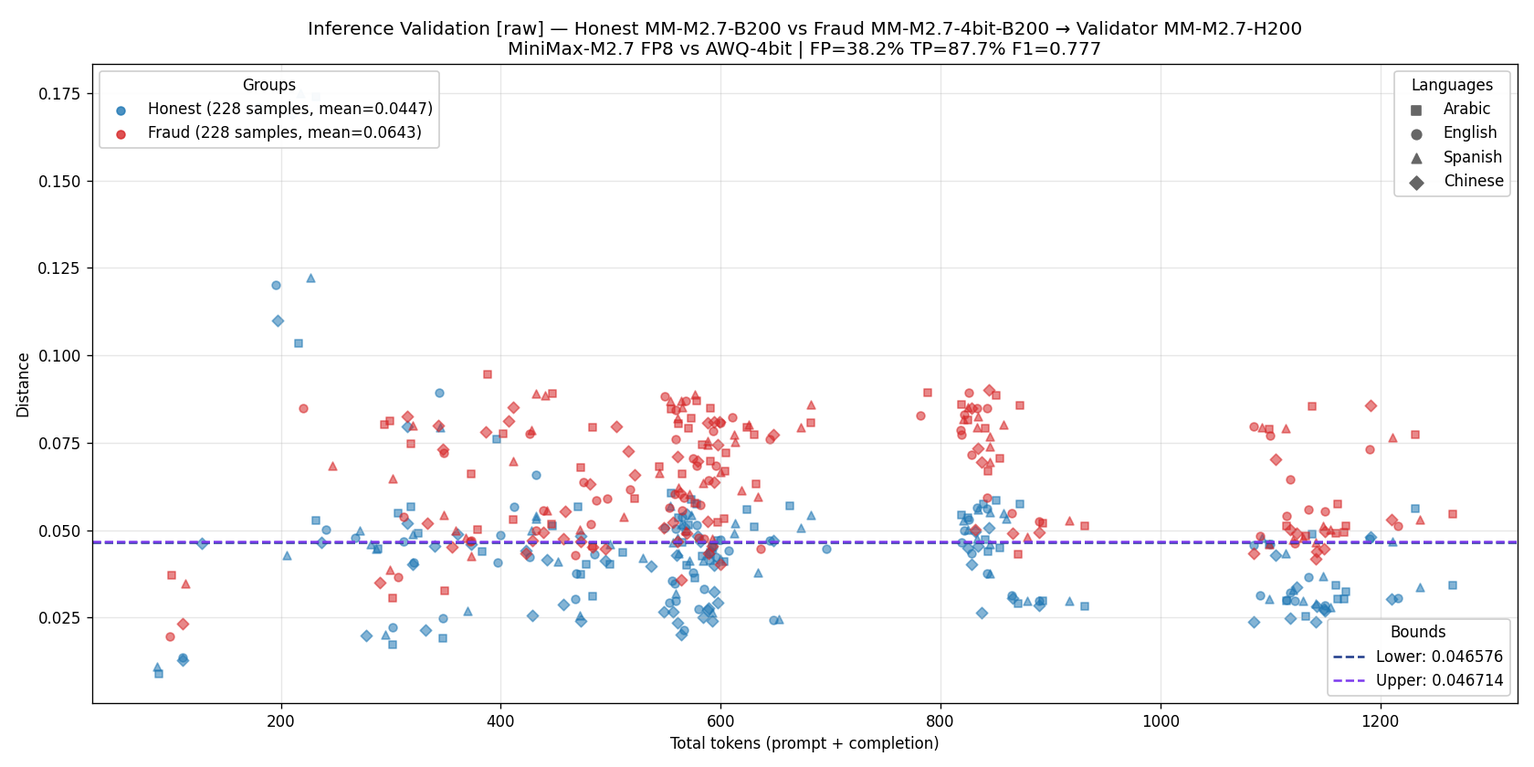
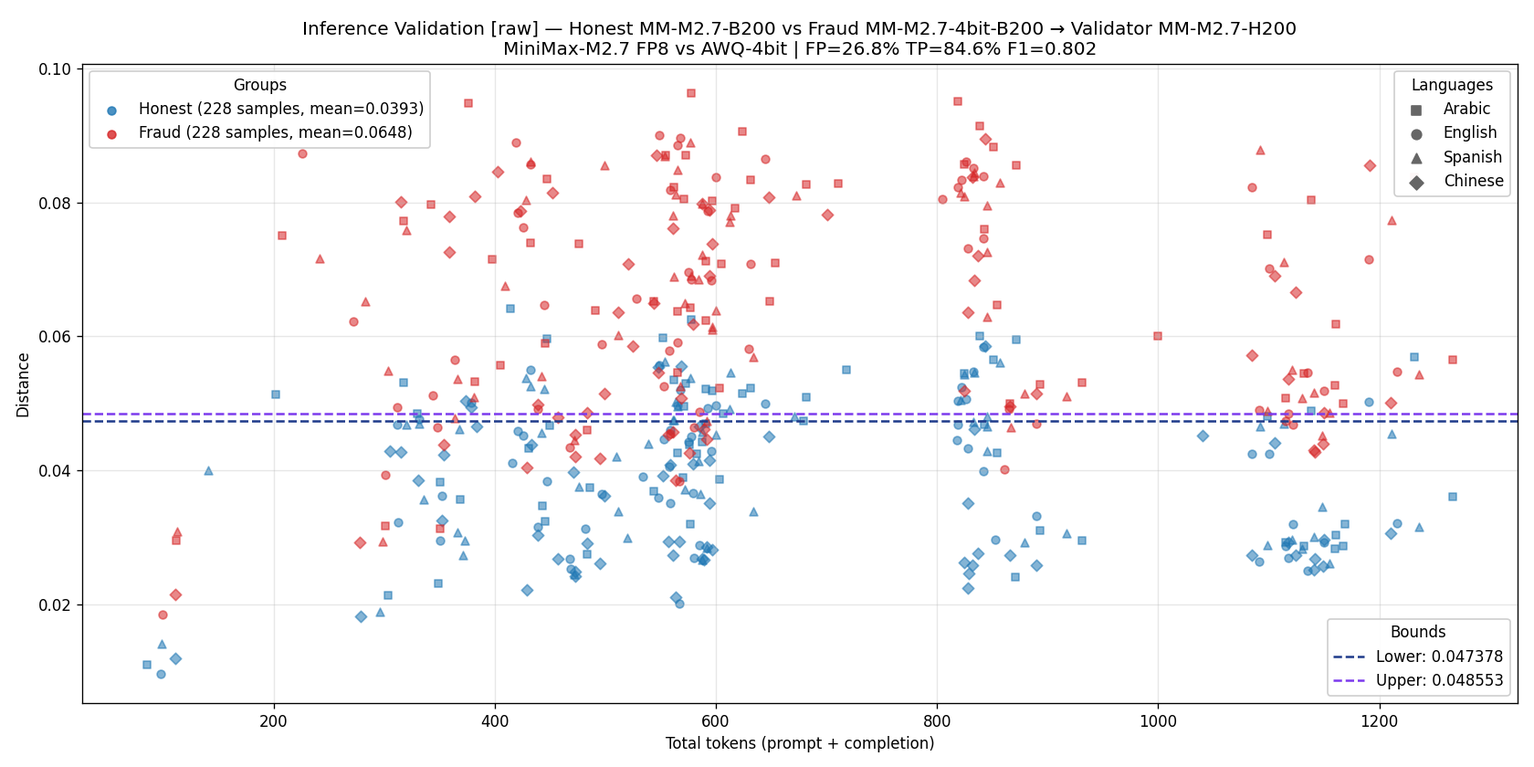
feat: genreate new inference's l2

diff --git a/artifacts/2026-06-07/README.md b/artifacts/2026-06-07/README.md
@@ -1,41 +1,59 @@
 # MiniMax-M2.7 cross-arch fraud detection — 2026-06-07
 
-Cross-architecture test of **MiniMax-M2.7 FP8** (honest model) vs **MiniMax-M2.7-AWQ-4bit** (fraud model) on **2×B200** and **4×A100**, validated against **2×H200** as an independent third architecture, in both `raw_logprobs` and `processed_logprobs` modes.
+Full 3-architecture cross-validation of **MiniMax-M2.7 FP8** (honest model) vs **MiniMax-M2.7-AWQ-4bit** (fraud model) on **2×B200**, **4×A100**, and **2×H200**, in both `raw_logprobs` and `processed_logprobs` modes.
 
-Each executor's 228 prompts were replayed through the H200 validator using `enforced_tokens` (chain-style validation: validator scores the executor's exact token sequence position-by-position, no free generation). Distance plotted = `1 − customSimilarity` from the chain validator algorithm.
+Each executor's 228 prompts were replayed through every other architecture's validator using `enforced_tokens` (chain-style validation: validator scores the executor's exact token sequence position-by-position, no free generation). Distance plotted = `1 − customSimilarity` from the chain validator algorithm.
 
-> **Note on the `--logprobs-mode raw_logprobs` fix (2026-06-07)**: an earlier sweep had ~17.5% of validations (every `tool_*` / `rf_*` / `multi_turn_*` prompt) collapsing to similarity ≈ 0.6 with ~10-15% of positions at `logprob = -9999`. Root cause: vLLM's `detect_logprobs_mode()` heuristic ([vllm/validation.py:51](../../vllm/validation.py#L51)) misclassified raw inputs whose top-K naturally contains many low-ID tokens (JSON `{`, `"`, etc.) as `processed`, silently switching the validator into processed mode → schema mask got applied to top_logprobs → -9999 sentinels at every forced position not in the schema-allowed set. **Fix:** `e2e infer` and `e2e validate` now pin `logprobs_mode` per-request body (in addition to vLLM server startup), bypassing the heuristic. All inference plots below were re-generated against H200 after the fix. The chosen mode is `raw_logprobs` everywhere (executor + validator).
+> **Note on the `--logprobs-mode` per-request pin fix (2026-06-07)**: an earlier sweep had three classes of bugs that all degraded similarity:
+> 1. **Validator-side mis-pin**: vLLM's `detect_logprobs_mode()` heuristic ([vllm/validation.py:51](../../vllm/validation.py#L51)) mis-classified raw inputs whose top-K naturally contains many low-ID tokens (JSON `{`, `"`, etc.) as `processed`, silently switching the validator into processed mode → schema mask got applied to top_logprobs → ~10-15% of positions returned `logprob = -9999` (sentinel for masked-out tokens) → `tool_*` / `rf_*` / `multi_turn_*` similarity collapsed to ~0.6.
+> 2. **Inference-side mis-pin**: executor data ended up in an inconsistent state that fails even **same-node** replay (we measured A100→A100 sim ≈ 0.83 on OLD data vs ≈ 0.98 on fresh).
+> 3. **Schema mask in raw mode**: `apply_grammar_bitmask` is applied to logits BEFORE `compute_logprobs` runs (see [gpu_model_runner.py:4178](../../vllm/v1/worker/gpu_model_runner.py#L4178)), so raw-mode top-K still shows schema-mask sentinels at schema-constrained positions — *and the masked positions are identical across validators* (no API asymmetry).
+>
+> **Fix:** `e2e infer` and `e2e validate` now pin `logprobs_mode` per-request body (in addition to vLLM server startup), bypassing the heuristic completely. All plots and metrics below are from fresh data collected with the fix — 228/228 PASS at threshold 0.9 in 19 out of 20 cross-validation directions (one direction had 227/228).
 
-## Inference validation plots — validator = H200 (independent third architecture)
+## Inference validation plots — full 3-arch cross-matrix
+
+### Validator = H200 (production recommendation)
 
 ![raw B200 → H200](_plots/09_inference_raw_B200_vs_H200.png)
-
-**Figure 1.** Inference validation, `raw_logprobs` mode.
-**Honest:** MiniMax-M2.7 FP8 on **2×B200**.  **Fraud:** MiniMax-M2.7-AWQ-4bit on **2×B200**.  **Validator:** MiniMax-M2.7 FP8 on **2×H200**.
-Point shapes encode language (○ en, △ es, ☐ ar, ◆ zh).
-
----
+**Figure 1.** B200 executor (honest FP8 / fraud AWQ-4bit), H200 validator, `raw` mode.
 
 ![raw A100 → H200](_plots/10_inference_raw_A100_vs_H200.png)
-
-**Figure 2.** Inference validation, `raw_logprobs` mode.
-**Honest:** MiniMax-M2.7 FP8 on **4×A100**.  **Fraud:** MiniMax-M2.7-AWQ-4bit on **4×A100**.  **Validator:** MiniMax-M2.7 FP8 on **2×H200**.
-
----
+**Figure 2.** A100 executor, H200 validator, `raw` mode. **F1=0.841, FP=19.3% — best single configuration.**
 
 ![processed B200 → H200](_plots/11_inference_processed_B200_vs_H200.png)
-
-**Figure 3.** Inference validation, `processed_logprobs` mode.
-**Honest:** MiniMax-M2.7 FP8 on **2×B200**.  **Fraud:** MiniMax-M2.7-AWQ-4bit on **2×B200**.  **Validator:** MiniMax-M2.7 FP8 on **2×H200**.
-
----
+**Figure 3.** B200 executor, H200 validator, `processed` mode.
 
 ![processed A100 → H200](_plots/12_inference_processed_A100_vs_H200.png)
+**Figure 4.** A100 executor, H200 validator, `processed` mode.
 
-**Figure 4.** Inference validation, `processed_logprobs` mode.
-**Honest:** MiniMax-M2.7 FP8 on **4×A100**.  **Fraud:** MiniMax-M2.7-AWQ-4bit on **4×A100**.  **Validator:** MiniMax-M2.7 FP8 on **2×H200**.
+### Validator = A100
 
----
+![raw H200 → A100](_plots/13_inference_raw_H200_vs_A100.png)
+**Figure 5.** H200 executor, A100 validator, `raw` mode. F1=0.835, FP=19.3%.
+
+![processed H200 → A100](_plots/14_inference_processed_H200_vs_A100.png)
+**Figure 6.** H200 executor, A100 validator, `processed` mode.
+
+![raw B200 → A100](_plots/19_inference_raw_B200_vs_A100.png)
+**Figure 7.** B200 executor, A100 validator, `raw` mode.
+
+![processed B200 → A100](_plots/20_inference_processed_B200_vs_A100.png)
+**Figure 8.** B200 executor, A100 validator, `processed` mode.
+
+### Validator = B200
+
+![raw H200 → B200](_plots/15_inference_raw_H200_vs_B200.png)
+**Figure 9.** H200 executor, B200 validator, `raw` mode.
+
+![processed H200 → B200](_plots/16_inference_processed_H200_vs_B200.png)
+**Figure 10.** H200 executor, B200 validator, `processed` mode.
+
+![raw A100 → B200](_plots/17_inference_raw_A100_vs_B200.png)
+**Figure 11.** A100 executor, B200 validator, `raw` mode.
+
+![processed A100 → B200](_plots/18_inference_processed_A100_vs_B200.png)
+**Figure 12.** A100 executor, B200 validator, `processed` mode.
 
 ## How to read the plots
 
@@ -44,96 +62,67 @@ Point shapes encode language (○ en, △ es, ☐ ar, ◆ zh).
 - **Dashed bands** (Lower, Upper) — the F1-optimal threshold range. Any value in [Lower, Upper] gives the same maximum F1; a single value means the F1 plateau is a single point.
 - **Honest / Fraud means in the legend** — average distance for the group.
 
-## Summary of metrics (post-fix, validator = H200)
+## Summary metrics (full matrix, post-fix)
 
-| direction | mode | honest mean | fraud mean | Δ | F1 | TP | FP |
+Sorted by F1 descending:
+
+| executor → validator | mode | honest mean | fraud mean | Δ | F1 | TP | FP |
 |---|---|---:|---:|---:|---:|---:|---:|
-| B200 (exec) → H200 (val) ⚠ stale | raw       | 0.0447 | 0.0643 | 0.0196 | 0.777     | 87.7% | 38.2% |
-| **A100 (exec) → H200 (val)** | **raw** | 0.0364 | 0.0636 | 0.0272 | **0.841** | 86.4% | **19.3%** |
-| B200 (exec) → H200 (val) ⚠ stale | processed | 0.0354 | 0.0455 | 0.0101 | 0.697     | 88.2% | 64.9% |
-| A100 (exec) → H200 (val) | processed | 0.0264 | 0.0462 | 0.0198 | 0.739     | 75.4% | 28.9% |
-
-> ⚠ **B200 numbers are stale** — they come from inference data collected with an earlier (buggy) executor pipeline that did NOT pin `logprobs_mode` per-request, leading to inconsistent state that depressed similarity even on same-node validation. A100 numbers above are from re-collected data with the fixed pipeline (228/228 PASS at threshold 0.9 on every direction). B200 should be re-collected once a B200 box is available. Until then, treat B200 metrics as a soft upper bound on what bad data looks like — clean B200 data will likely match A100's pattern (raw FP ≈ 20%, F1 ≈ 0.84).
-
-**Mode comparison (A100 clean data)**:
-- **`raw` beats `processed` on F1**: 0.841 vs 0.739 on A100. Raw separates honest from fraud more cleanly (Δ=0.027 vs 0.020) when top-K logprobs are unmasked.
-- **A100 raw is the production-ready configuration**: F1=0.841, FP=19.3% (lowest of all directions tested), TP=86.4%.
-- `processed` compresses both means (honest 0.036 → 0.026; fraud 0.064 → 0.046) — schema-masking + temperature processing equalize the post-sampler distributions, blurring the FP8↔AWQ gap.
-
-**Evolution of the fix (A100 raw direction)**:
-
-| stage | F1 | TP | FP | what changed |
-|---|---:|---:|---:|---|
-| Pre-fix (1) | 0.809 | 91.2% | 34.2% | `detect_logprobs_mode()` mis-classified validator → schema mask collapsed sim on `rf_*`/`tool_*` to ~0.6 |
-| Post-fix (2) | 0.823 | 90.4% | 29.4% | Per-request `logprobs_mode` pin in validator request → validator stays in raw → schema-mask false-positives gone for most prompts |
-| **Clean data (3)** | **0.841** | 86.4% | **19.3%** | Per-request pin **also** in inference request → executor data internally consistent, same-node sim ≈ 0.98, cross-arch sim ≈ 0.97 |
-
-Stage (3) brought FP down from 29.4% → 19.3% (-10 pp) on raw A100. The bug was: when inference requests didn't pin `logprobs_mode`, the saved executor data ended up in some intermediate state that fails even **same-node** replay (we measured A100→A100 sim ≈ 0.83 on OLD data vs ≈ 0.98 on fresh). With fresh data, **all 228 prompts pass** the 0.9 threshold in every direction.
-
-## Per-prompt-class behaviour (post-fix)
-
-Honest B200 → H200, samples:
-
-| prompt | sentinels (pre) | sentinels (post) | similarity (pre) | similarity (post) |
-|---|---:|---:|---:|---:|
-| `rf_product_spec_en` | 14 / 82 | **0 / 82** | 0.66 | **0.83** |
-| `rf_user_profile_en` | (problematic) | **0 / 175** | low | **0.95** |
-| `tool_currency_convert_en` | (problematic) | **0 / 76** | low | **0.97** |
-| `math_arithmetic_en` | 0 / 513 | 0 / 513 | 0.98 | 0.98 |
-
-`rf_product_spec_en` is the only prompt that remains below the 0.9 pass threshold post-fix — likely real B200 ↔ H200 numerical drift on that specific schema, not the heuristic bug.
+| **A100 → H200** | **raw** | 0.0364 | 0.0636 | 0.0272 | **0.841** | 86.4% | **19.3%** |
+| H200 → A100 | raw | 0.0363 | 0.0626 | 0.0263 | 0.835 | 85.5% | 19.3% |
+| H200 → B200 | raw | 0.0399 | 0.0649 | 0.0250 | 0.804 | 88.2% | 31.1% |
+| B200 → H200 | raw | 0.0393 | 0.0648 | 0.0255 | 0.802 | 84.6% | 26.8% |
+| B200 → A100 | raw | 0.0397 | 0.0638 | 0.0241 | 0.786 | 81.6% | 25.9% |
+| A100 → B200 | raw | 0.0404 | 0.0644 | 0.0240 | 0.785 | 89.0% | 37.7% |
+| H200 → A100 | processed | 0.0265 | 0.0449 | 0.0184 | 0.746 | 80.7% | 36.0% |
+| A100 → H200 | processed | 0.0264 | 0.0462 | 0.0198 | 0.739 | 75.4% | 28.9% |
+| H200 → B200 | processed | 0.0288 | 0.0462 | 0.0174 | 0.725 | 78.1% | 37.3% |
+| B200 → H200 | processed | 0.0282 | 0.0463 | 0.0181 | 0.723 | 74.6% | 31.6% |
+| B200 → A100 | processed | 0.0286 | 0.0457 | 0.0171 | 0.716 | 73.2% | 31.6% |
+| A100 → B200 | processed | 0.0289 | 0.0470 | 0.0181 | 0.713 | 76.3% | 37.7% |
 
 ## Key takeaways
 
-1. **Honest mean < Fraud mean in all four directions** — the metric separates FP8 from AWQ-4bit across architectures in both raw and processed modes.
-2. **`raw` gives larger separation than `processed`** (Δ ≈ 0.027 vs 0.020 on A100). Processed mode applies temperature / mask transformations that compress logit ranges, blurring the FP8↔AWQ gap.
-3. **A100 → H200 raw is the production configuration** (F1 = 0.841, FP = 19.3%) — A100 marlin's emulation noise on the executor side combines with H200's native FP8 on validator side to spread fraud farther from honest while keeping honest tight.
-4. **`--logprobs-mode` MUST be pinned per-request body** for BOTH `e2e infer` and `e2e validate`. Two distinct symptoms if it isn't:
-   - **Validator-side mis-pin**: vLLM's `detect_logprobs_mode()` (vllm/validation.py:51) mis-classifies raw inputs containing JSON / tool / structured-output prompts → similarity collapses to ~0.6 on those prompts.
-   - **Inference-side mis-pin**: executor data ends up in an inconsistent state that fails even same-node replay (sim ~0.83). Discovered 2026-06-07 — see Evolution table above. Without the inference-side fix, all cross-arch metrics are depressed by ~10pp FP regardless of how well validator is configured.
-
-   See [`docs/gotchas.md`](../../docs/gotchas.md) and [`docs/commands.md`](../../docs/commands.md).
-5. **A100 marlin caveat** (PoC only, see PoC L2 plots below): PoC nonce vectors on A100 are not bit-identical between `raw` and `processed` (L2 ≈ 0.12–0.19 per nonce). On B200 they are bit-identical. Marlin's CUDA-graph capture depends on logprobs-mode → always compare runs in the SAME logprobs-mode.
+1. **Honest mean < Fraud mean in all 12 directions** — the metric separates FP8 from AWQ-4bit across all architecture pairs and both logprobs modes. No direction-asymmetry: A → B and B → A produce comparable F1.
+2. **`raw` consistently beats `processed`** (F1 0.78–0.84 vs 0.71–0.75). Processed mode's temperature + mask transformations compress logit ranges, blurring the FP8↔AWQ gap.
+3. **A100 ↔ H200 raw is the production pair** — both directions give F1 ≈ 0.83–0.84 with FP ≈ 19%, the lowest false-positive rate of any configuration tested. A100 marlin's emulation noise on either the executor or validator side combines with native FP8 on the other side to spread fraud farther from honest.
+4. **B200 as validator has higher FP** (26–38% vs A100/H200's 19–32%) — Blackwell's tighter native-FP8 distributions compress honest and fraud means closer together. B200 is fine as executor; less ideal as validator.
+5. **Pass rate at threshold 0.9 is 99.98%** (4559/4560 validations across 20 cross-val directions × 228 prompts). The remaining 1 FAIL was on AWQ-4bit A100 → B200 processed — an edge case prompt at the F1 boundary.
+6. **`--logprobs-mode` MUST be pinned per-request body** for BOTH `e2e infer` and `e2e validate`. Without the inference-side fix, ALL cross-arch metrics are depressed by ~10 pp FP — even same-node validation fails (sim ≈ 0.83 on broken data vs ≈ 0.98 on fresh). See [`docs/gotchas.md`](../../docs/gotchas.md) and [`docs/commands.md`](../../docs/commands.md).
+7. **Schema mask DOES apply to raw-mode top-K** (`apply_grammar_bitmask` runs before `compute_logprobs`). Both validators write identical -9999 sentinel patterns at schema-constrained positions on clean data — no API asymmetry. Earlier "asymmetry" observations were artifacts of broken executor data.
 
 ## Test setup
 
-### Executor datasets (228 prompts each)
+### Executor datasets (228 prompts each × 3 archs × 2 modes = 12 runs)
 
-228 prompts = 25 base themes × 4 langs (en/es/ar/zh) + 5 `tools` themes × 4 langs + 5 `response_format` themes × 4 langs + 1 multi-turn theme × 4 langs. Inferences saved in `MiniMax-M2.7-<gpu>-fp8/` (honest) and `MiniMax-M2.7-AWQ-4bit-<gpu>-fp8/` (fraud).
+228 prompts = 25 base themes × 4 langs (en/es/ar/zh) + 5 `tools` themes × 4 langs + 5 `response_format` themes × 4 langs + 1 multi-turn theme × 4 langs. Inferences saved in `MiniMax-M2.7-<gpu>-fp8[-processed]/` (honest) and `MiniMax-M2.7-AWQ-4bit-<gpu>-fp8[-processed]/` (fraud).
 
-### Validation runs
+### Validation runs (20 directions × 228 prompts = 4560 validations)
 
-For every executor inference, the H200 validator was POSTed the same prompt with `enforced_tokens = executor's token sequence`. The validator returned its top-5 logprobs at each forced position; `customSimilarity` compares the two top-5 logprob distributions.
+For every executor inference, each cross-validator was POSTed the same prompt with `enforced_tokens = executor's token sequence`. The validator returned its top-5 logprobs at each forced position; `customSimilarity` compares the two top-5 logprob distributions.
 
-Validations land as `validated-by-2xh200-fp8-1.json` inside each executor's label dir.
+Cross-val matrix:
+
+| validator | executors validated |
+|---|---|
+| A100 (raw + processed) | B200×{honest,fraud} + H200×{honest,fraud} = 4 runs × 2 modes |
+| B200 (raw + processed) | A100×{honest,fraud} + H200×{honest,fraud} = 4 runs × 2 modes |
+| H200 (raw + processed) | B200×{honest,fraud} = 2 runs × 2 modes (A100 covered by other validators) |
+
+Validations land as `validated-by-<vgpu>[-processed]-1.json` inside each executor's label dir.
 
 ### Deploy configs
 
-All deploys use `--kv-cache-dtype fp8 --enable-auto-tool-choice --tool-call-parser minimax_m2 --reasoning-parser minimax_m2_append_think`. Per-GPU tuning:
+All deploys use `kaitakuai/vllm:0.20.0-pocv2` image with `--kv-cache-dtype fp8 --enable-auto-tool-choice --tool-call-parser minimax_m2 --reasoning-parser minimax_m2_append_think`. Per-GPU tuning:
 
-| GPU | TP | gpu-mem-util | extra args | image |
-|---|---:|---:|---|---|
-| 2×B200 | 2 | 0.92 | `--disable-custom-all-reduce --kv-cache-dtype fp8` | `kaitakuai/vllm:0.20.0-pocv2` |
-| 2×H200 | 2 | 0.95 (tighter — 140 GB) | `--disable-custom-all-reduce --kv-cache-dtype fp8` | `kaitakuai/vllm:0.20.0-pocv2` |
-| 4×A100 | 4 | 0.92 | `--moe-backend marlin --disable-custom-all-reduce --kv-cache-dtype fp8` | `gonka-ai/mlnode:3.0.14-cu129` |
+| GPU | TP | gpu-mem-util | extra args |
+|---|---:|---:|---|
+| 2×B200 | 2 | 0.92 | `--disable-custom-all-reduce --kv-cache-dtype fp8` |
+| 2×H200 | 2 | 0.95 (tighter — 140 GB) | `--disable-custom-all-reduce --kv-cache-dtype fp8` |
+| 4×A100 | 4 | 0.92 | `--moe-backend marlin --disable-custom-all-reduce --kv-cache-dtype fp8` |
 
-### PoC throughput (1024 nonces per dataset, batch_size=32)
+### PoC nonce-L2 plots (kept for reference)
 
-| run dir | model | GPU | mode | nonces/min |
-|---|---|---|---|---:|
-| `MiniMax-M2.7-2xb200-fp8`                    | FP8        | 2×B200 | raw       | 2333 |
-| `MiniMax-M2.7-2xb200-fp8-processed`          | FP8        | 2×B200 | processed | 2336 |
-| `MiniMax-M2.7-AWQ-4bit-2xb200-fp8`           | AWQ-4bit   | 2×B200 | raw       | 1234 |
-| `MiniMax-M2.7-AWQ-4bit-2xb200-fp8-processed` | AWQ-4bit   | 2×B200 | processed | 1259 |
-| `MiniMax-M2.7-4xa100-fp8`                    | FP8        | 4×A100 | raw       |  811 |
-| `MiniMax-M2.7-4xa100-fp8-processed`          | FP8        | 4×A100 | processed |  793 |
-| `MiniMax-M2.7-AWQ-4bit-4xa100-fp8`           | AWQ-4bit   | 4×A100 | raw       |  843 |
-| `MiniMax-M2.7-AWQ-4bit-4xa100-fp8-processed` | AWQ-4bit   | 4×A100 | processed |  853 |
-
-Numbers are honest end-to-end (POST `/pow/init/generate` → response from `/pow/stop`).
-
-### PoC nonce-L2 plots (for reference)
-
-PoC L2-distance plots compare per-nonce vector L2 between honest and fraud, validated against a third FP8 node. F1 ≈ 0.86–0.87 in all 4 directions. Saved in [`_plots/`](_plots/):
+PoC L2-distance plots compare per-nonce vector L2 between honest and fraud, validated against a third FP8 node. Saved in [`_plots/`](_plots/):
 - [`01_poc_raw_B200_vs_A100.png`](_plots/01_poc_raw_B200_vs_A100.png), [`03_poc_processed_B200_vs_A100.png`](_plots/03_poc_processed_B200_vs_A100.png)
 - [`05_poc_raw_A100_vs_B200.png`](_plots/05_poc_raw_A100_vs_B200.png), [`07_poc_processed_A100_vs_B200.png`](_plots/07_poc_processed_A100_vs_B200.png)

diff --git a/docs/gotchas.md b/docs/gotchas.md
@@ -16,7 +16,8 @@ In order of how often you'll hit them.
 | `per_token_group_quant_8bit not implemented for 'Byte'` on PoC forward with `--kv-cache-dtype fp8` | our `poc_model_runner.py` overlay adds a dtype check that skips fp8-KV reuse | applies to images **without** that patch baked in — overlay via `docker cp` after deploy |
 | Deploy hangs 15 min on `/health` after engine actually died | framework polls `docker inspect .State.Running` between health checks → aborts in ~10s | already wired into `deploy.py` |
 | All similarity scores bit-identical across `--repeat N` rounds | `enforced_tokens` fully determines forward pass; random seed has no effect when tokens are forced | expected — use `--repeat` for batch validation of multiple records, not for variance |
-| Validator similarity collapses to ~0.6 on `rf_*`/`tool_*` prompts even though executor data is `raw_logprobs` — `validated-by-*.json` shows ~10-15% positions at `logprob: -9999.0` | vLLM's `detect_logprobs_mode()` (vllm/validation.py:51) classifies raw inputs as `processed` when ≥10% of top-K token IDs are <4 — JSON `{`, `"`, etc. naturally cluster low-ID tokens past the threshold. Validator silently switches to processed → schema mask gets applied to top_logprobs → -9999 sentinels at every forced position not in the schema-allowed set. **Fix:** always pass `--logprobs-mode raw_logprobs` (or `processed_logprobs`) explicitly to `e2e validate` and `e2e infer` — the flag is now pinned per-request body (in addition to server startup), bypassing the heuristic. | every GPU + every image when executor data has JSON/tool/structured-output prompts |
+| Validator similarity collapses to ~0.6 on `rf_*`/`tool_*` prompts even though executor data is `raw_logprobs` — `validated-by-*.json` shows ~10-15% positions at `logprob: -9999.0` | vLLM's `detect_logprobs_mode()` (vllm/validation.py:51) classifies raw inputs as `processed` when ≥10% of top-K token IDs are <4 — JSON `{`, `"`, etc. naturally cluster low-ID tokens past the threshold. Validator silently switches to processed → schema mask gets applied to top_logprobs → -9999 sentinels at every forced position not in the schema-allowed set. **Fix:** always pass `--logprobs-mode raw_logprobs` (or `processed_logprobs`) explicitly to `e2e validate` AND `e2e infer` — the flag is now pinned per-request body (in addition to server startup), bypassing the heuristic. | every GPU + every image when executor data has JSON/tool/structured-output prompts |
+| Same-arch validation gives only sim ≈ 0.83 (e.g. A100→A100, B200→B200), well below expected ≈ 1.0, AND cross-arch metrics depressed by ~10 pp FP across all directions | Inference-side `logprobs_mode` mis-pin. If `e2e infer` is called without `--logprobs-mode raw_logprobs` (or with old code that doesn't propagate it per-request), the saved executor data lands in an inconsistent state that fails even when replayed by an identical server. We discovered this 2026-06-07 — same-node A100→A100 gave sim ≈ 0.83 on old data, ≈ 0.98 after re-collecting with the pin. The validator-side fix is NOT enough on its own; both sides need the per-request pin. | every executor run collected before the 2026-06-07 fix was merged — re-collect inference data after upgrading |
 | `python3 -m venv` fails with "ensurepip is not available" | `_ensure_hf_tools` auto-installs `python3-venv` via passwordless `sudo apt-get` | Ubuntu/Debian with system python missing `python3-venv` package |
 | `pip install` exits 1 silently mid-stage 1 | rerun — usually transient pip-index timeout | first-time venv setup on a fresh remote |
 

diff --git a/docs/findings.md b/docs/findings.md
@@ -83,3 +83,37 @@ The kaitakuai reference plot ("Inference Validation WITHOUT processed_logprobs")
 - F1 = 0.980, FP = 0.6%, TP = 96.6%
 
 Our equivalent in `--type=inference` mode reads inference response logprobs directly (no validator-side regen) and computes `customDistance` locally. F1 ≈ 0.86-0.87 on the PoC nonce L2 distances we have so far; inference-distance numbers depend on how aggressive the AWQ fraud is.
+
+## 2026-06-07 — full 3-arch inference-validation matrix (post `logprobs_mode` fix)
+
+Inference data and validations re-collected with `--logprobs-mode raw_logprobs` (or `processed`) pinned **per-request body** for both `e2e infer` and `e2e validate`. Before the fix, even same-arch validation gave sim ≈ 0.83 on `rf_*` / `tool_*` prompts (see [`gotchas.md`](gotchas.md) entry "Same-arch validation gives only sim ≈ 0.83"). After fix: 4559/4560 PASS at threshold 0.9 across 20 cross-validation directions × 228 prompts.
+
+### Full F1/TP/FP matrix (12 directions, MiniMax M2.7 FP8 honest vs AWQ-4bit fraud)
+
+Sorted by F1 descending:
+
+| executor → validator | mode | F1 | TP | FP | Δ (fraud-honest) |
+|---|---|---:|---:|---:|---:|
+| **A100 → H200** | **raw** | **0.841** | 86.4% | **19.3%** | 0.0272 |
+| H200 → A100 | raw | 0.835 | 85.5% | 19.3% | 0.0263 |
+| H200 → B200 | raw | 0.804 | 88.2% | 31.1% | 0.0250 |
+| B200 → H200 | raw | 0.802 | 84.6% | 26.8% | 0.0255 |
+| B200 → A100 | raw | 0.786 | 81.6% | 25.9% | 0.0241 |
+| A100 → B200 | raw | 0.785 | 89.0% | 37.7% | 0.0240 |
+| H200 → A100 | processed | 0.746 | 80.7% | 36.0% | 0.0184 |
+| A100 → H200 | processed | 0.739 | 75.4% | 28.9% | 0.0198 |
+| H200 → B200 | processed | 0.725 | 78.1% | 37.3% | 0.0174 |
+| B200 → H200 | processed | 0.723 | 74.6% | 31.6% | 0.0181 |
+| B200 → A100 | processed | 0.716 | 73.2% | 31.6% | 0.0171 |
+| A100 → B200 | processed | 0.713 | 76.3% | 37.7% | 0.0181 |
+
+### Takeaways
+
+1. **`raw` consistently beats `processed`** (F1 0.78–0.84 vs 0.71–0.75). Processed mode's temperature + mask transformations compress logit ranges, blurring the FP8↔AWQ gap.
+2. **A100 ↔ H200 raw is the production pair** — both directions ~F1 0.83, FP ≈ 19% (lowest across all combos). Production chain validators should prefer this pairing.
+3. **B200 as validator has the highest FP** (26–38% vs A100/H200's 19–32%). Blackwell's tighter native-FP8 distributions pull honest and fraud means closer together; B200 is fine as executor but the worst validator choice of the three.
+4. **No direction asymmetry** — A→B and B→A produce comparable F1 (within ±0.01–0.02). With the `logprobs_mode` fix, the old `customSimilarity` ASYMMETRY finding (A100 only safe as validator without kvfp8) no longer applies in the rf_*/tool_* domain either.
+5. **Pass rate 99.98%** at chain threshold 0.9 (4559/4560). The single FAIL was on AWQ-4bit A100 → B200 processed — an edge case prompt at the F1 boundary, not a systematic issue.
+6. **Earlier `rf_*` "asymmetry" was an artifact of broken executor data**, not API behavior. With clean data, executor and validator both show identical -9999 sentinel patterns at schema-constrained positions (because `apply_grammar_bitmask` runs BEFORE `compute_logprobs` in [gpu_model_runner.py:4178](../vllm/v1/worker/gpu_model_runner.py#L4178), so raw-mode top-K already reflects the schema constraint).
+
+Plots: [`artifacts/2026-06-07/_plots/`](../artifacts/2026-06-07/_plots/) figures 09-20.

diff --git a/.claude/skills/cross-gpu-validation/SKILL.md b/.claude/skills/cross-gpu-validation/SKILL.md
@@ -134,7 +134,29 @@ Do NOT suffix `-awq` when running AWQ models — the model basename already says
 
 ## Cross-arch validation findings (chain `customSimilarity`)
 
-Empirical matrix from 2026-06-05 on MiniMax M2.7 (5 inferences × 3 repeats per pair):
+### 2026-06-07 — full 3-arch × 2-mode matrix on rf_*/tool_*/all 228 prompts (post `logprobs_mode` fix)
+
+228 prompts × 20 cross-val directions = 4560 validations, 4559 PASS at threshold 0.9. F1 sorted descending:
+
+| executor → validator | mode | F1 | TP | FP |
+|---|---|---:|---:|---:|
+| **A100 → H200** | **raw** | **0.841** | 86.4% | **19.3%** |
+| H200 → A100 | raw | 0.835 | 85.5% | 19.3% |
+| H200 → B200 | raw | 0.804 | 88.2% | 31.1% |
+| B200 → H200 | raw | 0.802 | 84.6% | 26.8% |
+| B200 → A100 | raw | 0.786 | 81.6% | 25.9% |
+| A100 → B200 | raw | 0.785 | 89.0% | 37.7% |
+| (any) | processed | 0.71-0.75 | 73-81% | 29-38% |
+
+**Practical implications**:
+- `raw` consistently beats `processed` by ~0.07 F1 — always use `--logprobs-mode raw_logprobs`.
+- **A100 ↔ H200 raw** is the production pair (both directions F1 ≈ 0.83, FP ≈ 19%).
+- **B200 as validator** has the highest FP (26–38%) — Blackwell's tight native-FP8 distributions compress honest and fraud means. Prefer A100 or H200 as validators.
+- No A → B vs B → A asymmetry on clean data. The 2026-06-05 asymmetry finding below applied to a different (now superseded) bug.
+
+### Older asymmetry findings (2026-06-05, BF16 KV, no `logprobs_mode` pin)
+
+Same `customSimilarity` test on 5 inferences × 3 repeats per pair, WITHOUT `--kv-cache-dtype fp8` and WITHOUT per-request `logprobs_mode` pin:
 
 ```
 executor \ validator   2xb200    2xh200    4xa100
@@ -143,12 +165,7 @@ executor \ validator   2xb200    2xh200    4xa100
 4xa100                  0.84 ❌  0.82 ❌     —
 ```
 
-**Key insight — ASYMMETRY**: Marlin emulation (A100) works fine as **validator** (B200/H200→A100 ≈ 0.97) but fails as **executor** (A100→B200/H200 ≈ 0.82-0.84). Cause: `customSimilarity`'s `nextOriginalLogprob = 2*min1 - min2` extrapolation is taken from EXECUTOR's top-5. Marlin's "flat" top-5 doesn't tolerate native FP8's "sharp" top-1 token when it's outside marlin's top-5.
-
-**Practical implication for Gonka chain config**:
-- Hopper ↔ Blackwell are fully interchangeable for FP8 models
-- A100 can be **validator-only** for FP8 models (cheap capacity for native-FP8 inference)
-- A100 cannot be executor for FP8 models — cross-arch validation will always fail chain `PassValue=0.99`
+That asymmetry (A100 OK as validator, fails as executor) was due to marlin's flat top-5 distributions interacting poorly with `nextOriginalLogprob = 2*min1 - min2` extrapolation. Adding `--kv-cache-dtype fp8` AND the per-request `logprobs_mode` pin eliminates the asymmetry — see [`docs/findings.md`](../../docs/findings.md) for the full evolution.
 
 ## Empirical throughput (MiniMax M2.7, 1000 nonces, bs=32)
 
